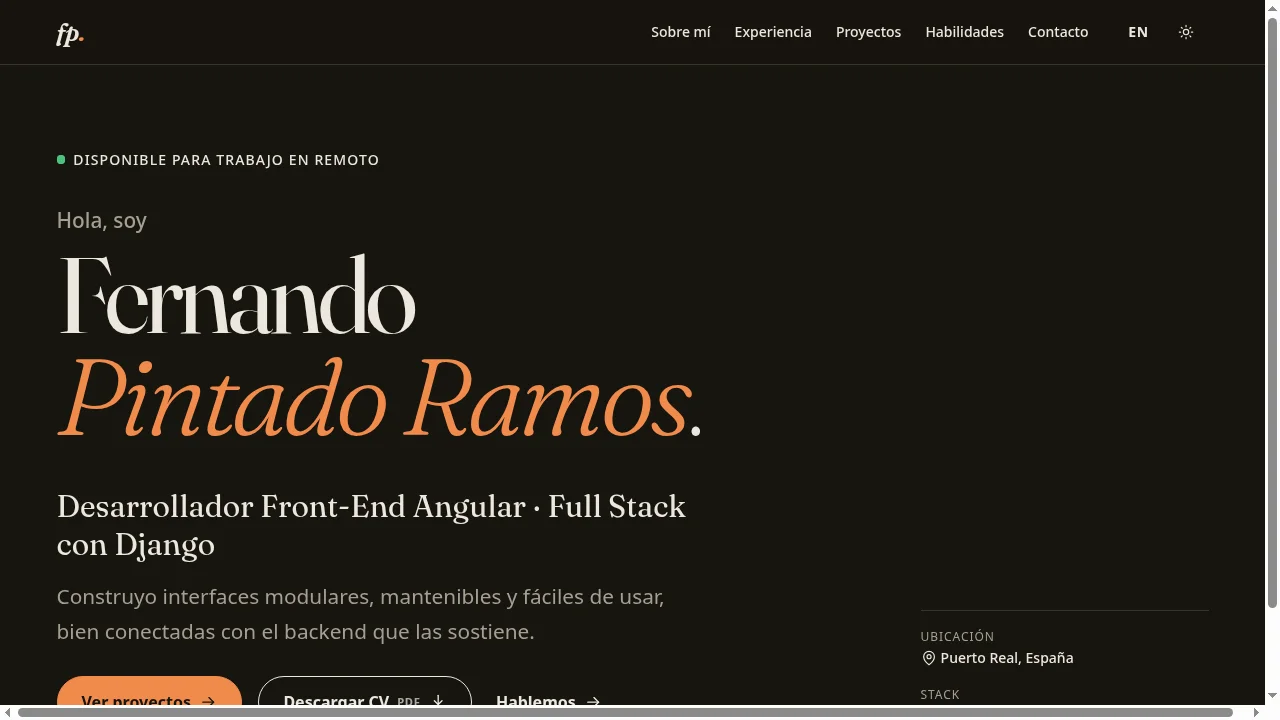
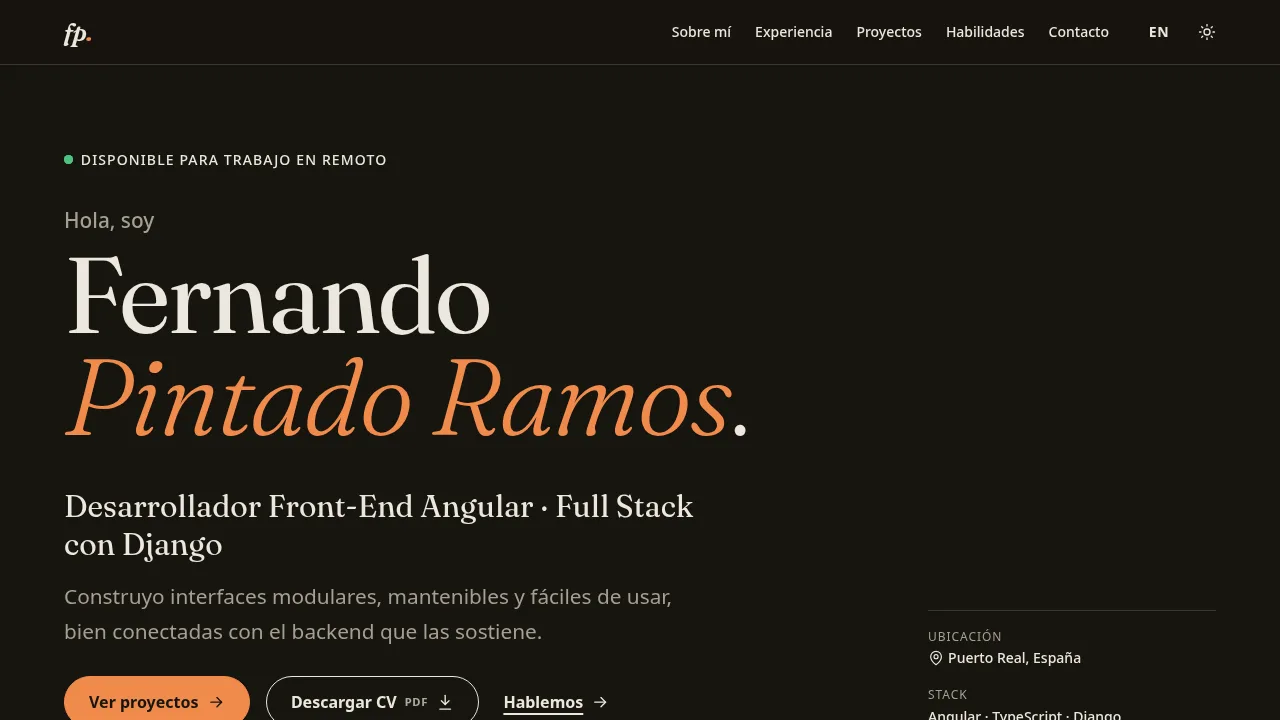
Upgrade

diff --git a/src/app/features/home/sections/about/about.scss b/src/app/features/home/sections/about/about.scss
@@ -4,56 +4,30 @@
   display: block;
 }
 
+// Text at a comfortable reading width; languages and education sit beside it
+// on wide screens and below it on narrow ones.
 .layout {
   display: grid;
-  grid-template-areas:
-    'portrait'
-    'prose'
-    'facts';
-  gap: var(--space-xl);
+  gap: var(--space-xl) var(--space-2xl);
 
-  @include up(md) {
-    grid-template-columns: minmax(12rem, 18rem) 1fr;
-    grid-template-areas:
-      'portrait prose'
-      'portrait facts';
-    column-gap: var(--space-2xl);
+  @include up(lg) {
+    grid-template-columns: minmax(0, 65ch) var(--sidebar);
+    justify-content: space-between;
+    align-items: start;
   }
-}
-
-.portrait {
-  grid-area: portrait;
-  max-width: 18rem;
-
-  img {
-    width: 100%;
-    border-radius: var(--radius-md);
-    background: var(--color-surface);
-    filter: grayscale(0.15);
-    transform: rotate(-1.5deg);
-    box-shadow: var(--shadow-card);
-
-    @include motion {
-      transition: transform var(--duration-base) var(--ease-out);
-    }
-  }
-
-  &:hover img {
-    transform: rotate(0deg);
-  }
-}
-
-.prose {
-  grid-area: prose;
 }
 
 .facts {
-  grid-area: facts;
   display: grid;
   gap: var(--space-xl);
 
   @include up(sm) {
     grid-template-columns: 1fr 1.4fr;
+  }
+
+  @include up(lg) {
+    grid-template-columns: none;
+    padding-top: var(--space-2xs);
   }
 
   ul {

diff --git a/src/app/features/home/sections/about/about.html b/src/app/features/home/sections/about/about.html
@@ -2,22 +2,13 @@
   <app-section-heading [index]="index()" [title]="t('about.title')" [headingId]="headingId()" />
 
   <div class="layout">
-    <figure class="portrait">
-      <img
-        [ngSrc]="profile.photo.src"
-        [width]="profile.photo.width"
-        [height]="profile.photo.height"
-        [alt]="loc(profile.photo.alt)"
-      />
-    </figure>
-
     <div class="prose">
       @for (paragraph of loc(profile.summary); track $index) {
         <p>{{ paragraph }}</p>
       }
     </div>
 
-    <div class="facts">
+    <aside class="facts">
       <section aria-labelledby="languages-title">
         <h3 id="languages-title" class="facts-title">{{ t('about.languages') }}</h3>
         <ul role="list">
@@ -41,6 +32,6 @@
           }
         </ul>
       </section>
-    </div>
+    </aside>
   </div>
 </div>

diff --git a/src/app/features/home/sections/hero/hero.scss b/src/app/features/home/sections/hero/hero.scss
@@ -10,7 +10,7 @@
   padding-block: var(--space-2xl) var(--space-xl);
 
   @include up(lg) {
-    grid-template-columns: 1fr 18rem;
+    grid-template-columns: 1fr var(--sidebar);
     column-gap: var(--space-2xl);
     min-height: calc(90dvh - var(--header-height));
     align-content: center;
@@ -54,8 +54,9 @@
   font-size: var(--text-display);
   font-weight: 400;
   line-height: 0.95;
-  letter-spacing: -0.045em;
-  font-variation-settings: 'opsz' 144;
+  letter-spacing: -0.02em;
+  // At the 144 optical size the eye of the "e" closes up and reads as a "c".
+  font-variation-settings: 'opsz' 72;
 }
 
 .greeting {

diff --git a/src/app/features/home/sections/about/about.ts b/src/app/features/home/sections/about/about.ts
@@ -1,5 +1,4 @@
 import { ChangeDetectionStrategy, Component, inject, input } from '@angular/core';
-import { NgOptimizedImage } from '@angular/common';
 
 import { I18nService } from '../../../../core/i18n/i18n.service';
 import { PROFILE } from '../../../../data/profile';
@@ -7,7 +6,7 @@ import { SectionHeading } from '../../../../shared/ui/section-heading/section-he
 
 @Component({
   selector: 'app-about',
-  imports: [NgOptimizedImage, SectionHeading],
+  imports: [SectionHeading],
   changeDetection: ChangeDetectionStrategy.OnPush,
   templateUrl: './about.html',
   styleUrl: './about.scss',

diff --git a/src/app/data/profile.ts b/src/app/data/profile.ts
@@ -35,12 +35,6 @@ export const PROFILE: Profile = {
     es: '/cv/fernando-pintado-ramos-cv.pdf',
     en: '/cv/fernando-pintado-ramos-cv.pdf',
   },
-  photo: {
-    src: '/img/profile.svg',
-    alt: { es: 'Retrato de Fernando Pintado Ramos', en: 'Portrait of Fernando Pintado Ramos' },
-    width: 480,
-    height: 600,
-  },
   languages: [
     { name: { es: 'Español', en: 'Spanish' }, level: { es: 'Nativo', en: 'Native' } },
     { name: { es: 'Inglés', en: 'English' }, level: { es: 'B2', en: 'B2' } },

diff --git a/src/app/core/layout/header/header.scss b/src/app/core/layout/header/header.scss
@@ -1,6 +1,8 @@
 @use 'mixins' as *;
 
 :host {
+  --icon-size: 1.125rem;
+
   position: sticky;
   top: 0;
   z-index: 50;
@@ -61,6 +63,9 @@
 .actions {
   display: flex;
   gap: var(--space-2xs);
+  // Pull the last button's padding past the edge so its icon, not its hit
+  // area, lines up with the right edge of the container.
+  margin-inline-end: calc((2.75rem - var(--icon-size)) / -2);
 }
 
 // Only the icon for the theme you would switch to is shown.

diff --git a/src/styles/_utilities.scss b/src/styles/_utilities.scss
@@ -1,5 +1,8 @@
 @use 'mixins' as *;
 
+// The one layout container: header, hero, sections and footer all use it so
+// they share the same max-width and side padding. Don't add inline padding or
+// max-width to elements that carry it.
 .container {
   width: 100%;
   max-width: calc(var(--container) + 2 * var(--gutter));

diff --git a/src/app/data/models.ts b/src/app/data/models.ts
@@ -45,7 +45,6 @@ export interface Profile {
   readonly github: Link;
   readonly linkedin: Link;
   readonly cv: Localized;
-  readonly photo: Image;
   readonly languages: readonly SpokenLanguage[];
   readonly education: readonly Education[];
 }

diff --git a/src/styles/_tokens.scss b/src/styles/_tokens.scss
@@ -56,6 +56,8 @@
   --radius-pill: 999px;
 
   --container: 72rem;
+  // Side column next to the main text (hero colophon, about facts).
+  --sidebar: 18rem;
   --gutter: clamp(1rem, 0.5rem + 2.5vw, 2.5rem);
   --header-height: 4rem;
 

diff --git a/README.md b/README.md
@@ -129,7 +129,6 @@ Para añadir un idioma:
 
 ## Personalizar
 
-- **Foto:** sustituye `public/img/profile.svg` por tu foto (por ejemplo `profile.webp` a 480×600) y actualiza `photo` en `data/profile.ts`.
 - **CV:** sustituye `public/cv/fernando-pintado-ramos-cv.pdf`. Si tienes uno por idioma, cambia `cv.en` en `data/profile.ts`.
 - **Imagen para redes:** `public/og-image.png` (1200×630).
 - **Colores y tipografía:** `src/styles/_tokens.scss`.
